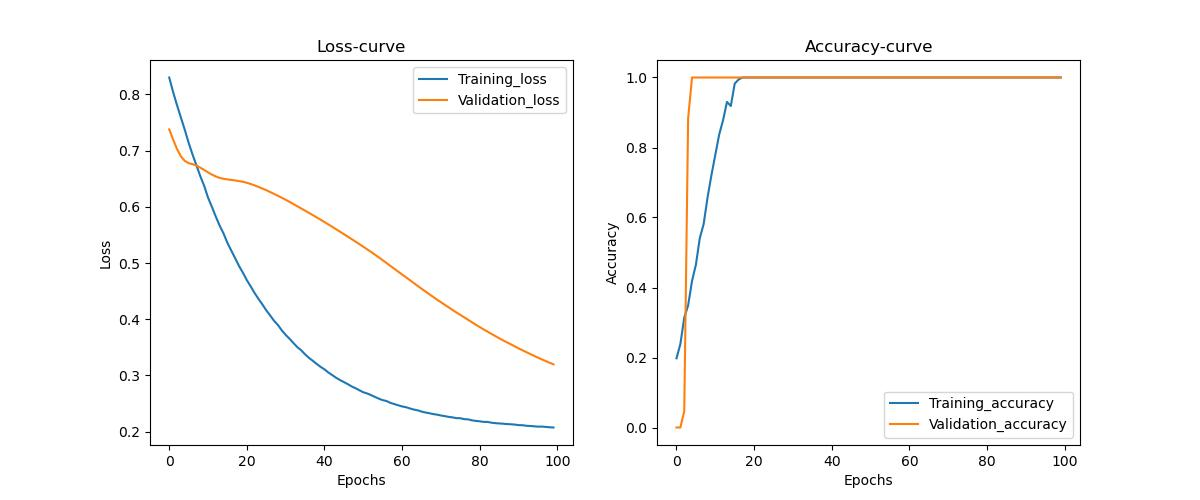
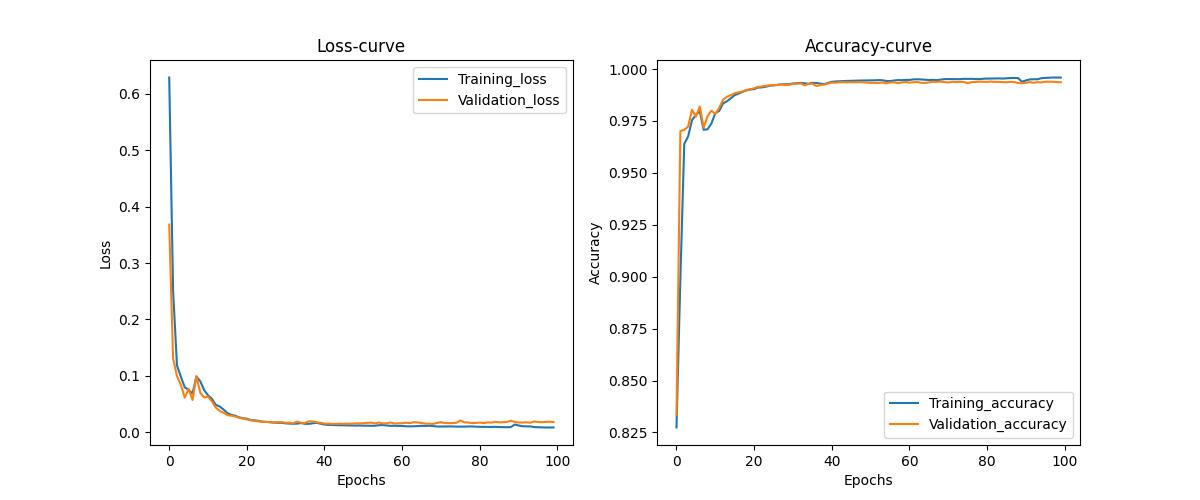
fixed some bug

diff --git a/main.py b/main.py
@@ -1,11 +1,14 @@
 from train import train_model
 from trainlog import plot_curve
 import tensorflow as tf
+import os
+os.environ['TF_GPU_ALLOCATOR'] = 'cuda_malloc_async'
 def main():
     gpus = tf.config.list_physical_devices("GPU")
-    print(f"available GPUs{len(gpus)}")
+    print(f"available GPUs {len(gpus)}")
     for gpu in gpus:
         print(gpu)
+        tf.config.experimental.set_memory_growth(gpu, True)
     strategy = tf.distribute.MirroredStrategy()
     print(f"number of devices: {strategy.num_replicas_in_sync}")
     with strategy.scope():

diff --git a/unet_model.py b/unet_model.py
@@ -1,4 +1,4 @@
-from keras.src.layers import GlobalAveragePooling2D, Conv2DTranspose
+from tensorflow.keras.layers import GlobalAveragePooling2D, Conv2DTranspose
 from  tensorflow.keras.layers import Conv2D, Dense, MaxPooling2D, AveragePooling2D,Concatenate
 from  tensorflow.keras.layers import Input, Add, Flatten, Dropout, BatchNormalization, Activation
 from tensorflow.keras.models import Model

diff --git a/test.py b/test.py
@@ -1,11 +1,8 @@
-import tensorflow as tf
+from tensorflow.keras.layers import GlobalAveragePooling2D, Conv2DTranspose
 
-gpus = tf.config.list_physical_devices('GPU')
-if gpus:
-    print(f"TensorFlow detected {len(gpus)} GPU(s):")
-    for gpu in gpus:
-        print(gpu)
-else:
-    print("No GPU detected by TensorFlow.")
+print("Keras layers imported successfully!")
+
+
+
 
 

diff --git a/imageprocess.py b/imageprocess.py
@@ -14,8 +14,8 @@ def process_image(images, is_mask = False):
         pro_img.append(resized_img)
     images = np.array(pro_img)
     if is_mask:
-        print("image process finished")
-    else:
         print("mask process finished")
+    else:
+        print("image process finished")
     return images
 

diff --git a/config.py b/config.py
@@ -1,4 +1,4 @@
-batch_size = 128
+batch_size = 8
 num_class = 1
 epochs = 100
-ht_img, wd_img = 1024, 1024
+ht_img, wd_img = 512, 512
